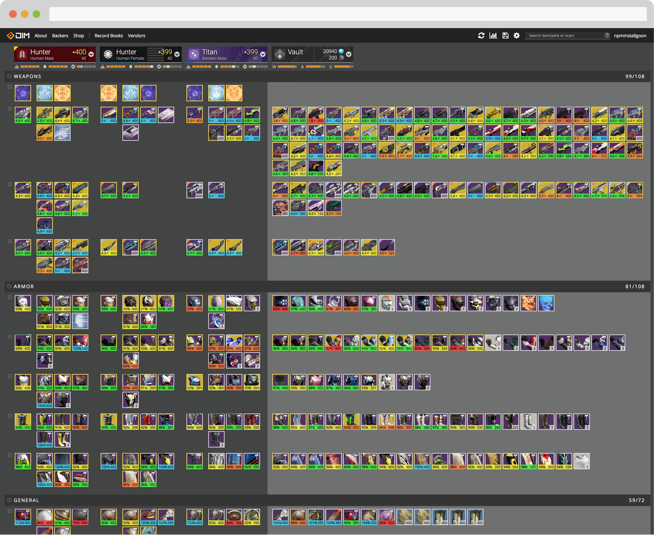
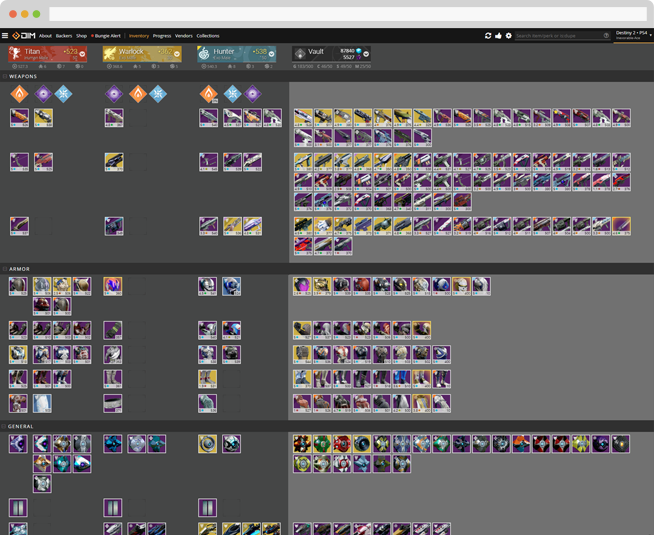
first panel images replaced, copy updated for destiny 2

diff --git a/destinyitemmanager.com/index.html b/destinyitemmanager.com/index.html
@@ -1,167 +1,177 @@
 <!DOCTYPE html>
 <html lang="en">
-  <head>
-    <meta charset="utf-8">
-    <meta name="viewport" content="width=device-width, initial-scale=1">
 
-    <!-- Global Site Tag (gtag.js) - Google Analytics -->
-    <script async src="https://www.googletagmanager.com/gtag/js?id=UA-60316581-6"></script>
-    <script>
-     window.dataLayer = window.dataLayer || [];
-     function gtag(){dataLayer.push(arguments)};
-     gtag('js', new Date());
+<head>
+  <meta charset="utf-8">
+  <meta name="viewport" content="width=device-width, initial-scale=1">
 
-     gtag('config', 'UA-60316581-6');
-    </script>
+  <!-- Global Site Tag (gtag.js) - Google Analytics -->
+  <script async src="https://www.googletagmanager.com/gtag/js?id=UA-60316581-6"></script>
+  <script>
+    window.dataLayer = window.dataLayer || [];
+    function gtag() { dataLayer.push(arguments) };
+    gtag('js', new Date());
 
-    <title>Destiny Item Manager</title>
-    <link href="/favicon-16x16.png" rel="icon" sizes="16x16" type="image/png">
-    <link href="/favicon-32x32.png" rel="icon" sizes="32x32" type="image/png">
-    <link href="/favicon-96x96.png" rel="icon" sizes="96x96" type="image/png">
-    <link href="https://fonts.googleapis.com/css?family=Open+Sans:300,400,600,700,800" rel="stylesheet">
-    <link rel="stylesheet" href="https://cdnjs.cloudflare.com/ajax/libs/normalize/7.0.0/normalize.min.css">
-    <link rel="stylesheet" href="css/main.css">
-  </head>
-  <body>
-    <header>
-      <nav class="row">
-        <div class="col-2 logo"><img class="logo link release" src="images/DIM-menu.svg" alt="DIM" href="#"></div>
-        <ul class="col-10 menu">
-          <li><a target="_blank" href="https://opencollective.com/dim?utm_campaign=dim&utm_medium=github&utm_source=opencollective#about_us">About</a></li>
-          <li><a target="_blank" href="https://opencollective.com/dim?utm_campaign=dim&utm_medium=github&utm_source=opencollective#support">Backers</a></li>
-          <li><a target="_blank" href="https://shop.destinyitemmanager.com/">Shop</a></li>
-          <li><a target="_blank" href="https://github.com/DestinyItemManager/DIM/issues">Support</a></li>
-          <li class="vertical-break">|</li>
-          <li><a href="https://app.destinyitemmanager.com">Launch App</a></li>
-        </ul>
-      </nav>
-      <button class="mobile-menu">Mobile Menu<span></span><span></span><span> </span></button>
-      <nav class="sliding-panel-content">
-        <ul class="menu">
-          <li class="mobile-heading"><img class="logo link release" src="images/DIM-menu.svg" alt="DIM" href="#"></li>
-          <li><a target="_blank" href="https://opencollective.com/dim?utm_campaign=dim&utm_medium=github&utm_source=opencollective#about_us">About</a></li>
-          <li><a target="_blank" href="https://opencollective.com/dim?utm_campaign=dim&utm_medium=github&utm_source=opencollective#support">Backers</a></li>
-          <li><a target="_blank" href="https://teespring.com/stores/dim">Shop</a></li>
-          <li><a target="_blank" href="https://github.com/DestinyItemManager/DIM/issues">Support</a></li>
-          <li><a href="https://app.destinyitemmanager.com">Launch App</a></li>
-        </ul>
-      </nav>
-    </header>
-    <div class="hero">
-      <div class="row">
-        <h1>Control Your Items Your Way.</h1>
-        <p>Swap items, check stats, build the loadout to Become Legend with DIM</p>
-        <a class="launch" href="https://app.destinyitemmanager.com">Launch app</a><a class="beta" href="https://beta.destinyitemmanager.com"><em>try the beta</em></a><img class="browser" src="images/Browser.png" width="654px" alt="Browser running Destiny Item Manager">
+    gtag('config', 'UA-60316581-6');
+  </script>
+
+  <title>Destiny Item Manager</title>
+  <link href="/favicon-16x16.png" rel="icon" sizes="16x16" type="image/png">
+  <link href="/favicon-32x32.png" rel="icon" sizes="32x32" type="image/png">
+  <link href="/favicon-96x96.png" rel="icon" sizes="96x96" type="image/png">
+  <link href="https://fonts.googleapis.com/css?family=Open+Sans:300,400,600,700,800" rel="stylesheet">
+  <link rel="stylesheet" href="https://cdnjs.cloudflare.com/ajax/libs/normalize/7.0.0/normalize.min.css">
+  <link rel="stylesheet" href="css/main.css">
+</head>
+
+<body>
+  <header>
+    <nav class="row">
+      <div class="col-2 logo"><img class="logo link release" src="images/DIM-menu.svg" alt="DIM" href="#"></div>
+      <ul class="col-10 menu">
+        <li><a target="_blank" href="https://opencollective.com/dim?utm_campaign=dim&utm_medium=github&utm_source=opencollective#about_us">About</a></li>
+        <li><a target="_blank" href="https://opencollective.com/dim?utm_campaign=dim&utm_medium=github&utm_source=opencollective#support">Backers</a></li>
+        <li><a target="_blank" href="https://shop.destinyitemmanager.com/">Shop</a></li>
+        <li><a target="_blank" href="https://github.com/DestinyItemManager/DIM/issues">Support</a></li>
+        <li class="vertical-break">|</li>
+        <li><a href="https://app.destinyitemmanager.com">Launch App</a></li>
+      </ul>
+    </nav>
+    <button class="mobile-menu">Mobile Menu<span></span><span></span><span> </span></button>
+    <nav class="sliding-panel-content">
+      <ul class="menu">
+        <li class="mobile-heading"><img class="logo link release" src="images/DIM-menu.svg" alt="DIM" href="#"></li>
+        <li><a target="_blank" href="https://opencollective.com/dim?utm_campaign=dim&utm_medium=github&utm_source=opencollective#about_us">About</a></li>
+        <li><a target="_blank" href="https://opencollective.com/dim?utm_campaign=dim&utm_medium=github&utm_source=opencollective#support">Backers</a></li>
+        <li><a target="_blank" href="https://teespring.com/stores/dim">Shop</a></li>
+        <li><a target="_blank" href="https://github.com/DestinyItemManager/DIM/issues">Support</a></li>
+        <li><a href="https://app.destinyitemmanager.com">Launch App</a></li>
+      </ul>
+    </nav>
+  </header>
+  <div class="hero">
+    <div class="row">
+      <h1>Control Your Items Your Way.</h1>
+      <p>Swap items, check stats, build the loadout to Become Legend with DIM</p>
+      <a class="launch" href="https://app.destinyitemmanager.com">Launch app</a><a class="beta" href="https://beta.destinyitemmanager.com"><em>try
+          the beta</em></a><img class="browser" src="images/Browser.png" width="654px" alt="Browser running Destiny Item Manager">
+    </div>
+  </div>
+  <section class="whats-dim">
+    <div class="row">
+      <div class="col-5 info">
+        <div class="text-wrap">
+          <h2>What's DIM?</h2>
+          <h3>Weapons</h3>
+          <p>Forgot to grab your favorite hand cannon? Just click and drag it to your active charcter.</p>
+          <h3>Gear</h3>
+          <p>Need those STOMP-EE5 for the jumping puzzle? Fire up DIM and grab them.</p>
+          <h3>Loadouts</h3>
+          <p>Create the perfect loadout for Raids, Strikes, Gambit, and any other loadout that woud be helpful.</p>
+        </div>
+      </div>
+      <div class="col-5"><img class="image-shadow" alt="Gear Square" src="images/GearSquare@2x.jpg" width="379px"></div>
+    </div>
+  </section>
+  <section class="easy">
+    <div class="row">
+      <div class="col-5 image"><img class="image-shadow" alt="Inspect Weapons" src="images/InspectWeaponShot@2x.jpg"
+          width="379px"></div>
+      <div class="col-5">
+        <div class="text-wrap">
+          <h2>It Really Is That Easy.</h2>
+          <h3>Drop Rating Percentage</h3>
+          <p>Going for a Tier 12 build? Use DIM to see how good your roll is on armor. (Coming soon for Destiny 2)</p>
+          <h3>Weapon Reviews / Ratings</h3>
+          <p>Review and rate your favorite guns, and let others know what you think.</p>
+          <h3>Tagging</h3>
+          <p>Organize your stuff by what to keep, what's your favorite, what to infuse and what to get rid of.</p>
+        </div>
       </div>
     </div>
-    <section class="whats-dim">
-      <div class="row">
-        <div class="col-5 info">
-          <div class="text-wrap">
-            <h2>What's DIM?</h2>
-            <h3>Weapons</h3>
-            <p>Forgot to grab your favorite hand cannon? Just click and drag it to your active charcter.</p>
-            <h3>Gear</h3>
-            <p>Need those Bones of Eao for the jumping puzzle? Fire up DIM and grab them.</p>
-            <h3>Loadouts</h3>
-            <p>Create the perfect loadout for Raids, Strikes, Trails, and any other loadout that woud be helpful.</p>
-          </div>
+  </section>
+  <section class="access">
+    <div class="row">
+      <div class="col-6">
+        <h2>Access Your Items Everywhere</h2>
+        <div class="devices">
+          <span class="device-text">PC</span><span class="spacer text-dark"> </span><span class="device-text">Tablet</span><span
+            class="spacer text-dark"> </span><span class="device-text">Mobile</span>
         </div>
-        <div class="col-5"><img class="image-shadow" alt="Gear Square" src="images/GearSquare@2x.jpg" width="379px"></div>
-      </div>
-    </section>
-    <section class="easy">
-      <div class="row">
-        <div class="col-5 image"><img class="image-shadow" alt="Inspect Weapons" src="images/InspectWeaponShot@2x.jpg" width="379px"></div>
-        <div class="col-5">
-          <div class="text-wrap">
-            <h2>It Really Is That Easy.</h2>
-            <h3>Drop Rating Percentage</h3>
-            <p>Going for a Tier 12 build? Use DIM to see how good your roll is on armor. (Not available for Destiny 2 yet)</p>
-            <h3>Weapon Reviews / Ratings</h3>
-            <p>Review and rate your favorite guns, and let others know what you think.</p>
-            <h3>Tagging</h3>
-            <p>Organize your stuff by what to keep, what's your favorite, what to infuse and what to get rid of.</p>
-          </div>
+        <div class="systems">
+          <span class="xbox device-text">Xbox</span><span class="spacer text-dark"> </span><span class="playstation device-text">Playstation</span><span
+            class="spacer text-dark"> </span><span class="blizzard device-text">Blizzard</span>
         </div>
+        <a class="launch" href="https://app.destinyitemmanager.com">Launch app</a>
+        <a class="beta" href="https://beta.destinyitemmanager.com"> <em>try the beta</em></a>
       </div>
-    </section>
-    <section class="access">
-      <div class="row">
-        <div class="col-6">
-          <h2>Access Your Items Everywhere</h2>
-          <div class="devices">
-            <span class="device-text">PC</span><span class="spacer text-dark"> </span><span class="device-text">Tablet</span><span class="spacer text-dark"> </span><span class="device-text">Mobile</span>
-          </div>
-          <div class="systems">
-            <span class="xbox device-text">Xbox</span><span class="spacer text-dark"> </span><span class="playstation device-text">Playstation</span><span class="spacer text-dark"> </span><span class="blizzard device-text">Blizzard</span>
-          </div>
-          <a class="launch" href="https://app.destinyitemmanager.com">Launch app</a>
-          <a class="beta" href="https://beta.destinyitemmanager.com"> <em>try the beta</em></a>
-        </div>
-        <div class="col-6"><img class="vertical-full-height" alt="Gear Square" src="images/devices@2x.png" width="538"></div>
-      </div>
-    </section>
-    <footer>
-      <div class="row footer-nav">
-        <div class="col-2 footer-logo">
-          <svg width="71px" height="25px" viewbox="0 0 71 25" version="1.1" xmlns="http://www.w3.org/2000/svg" xmlns:xlink="http://www.w3.org/1999/xlink">
-            <defs>
-              <lineargradient id="linearGradient-1" x1="97.073663%" y1="97.0720687%" x2="24.9815504%" y2="24.9777845%">
-                <stop stop-color="#FFFFFF" offset="0%"></stop>
-                <stop stop-color="#C9CACC" offset="100%"></stop>
-              </lineargradient>
-            </defs>
-            <g id="Welcome" stroke="none" stroke-width="1" fill="none" fill-rule="evenodd">
-              <g id="Desktop-HD" transform="translate(-261.000000, -2023.000000)" fill-rule="nonzero">
-                <g id="Footer" transform="translate(0.000000, 1972.000000)">
-                  <g id="DIM-white-footer" transform="translate(261.000000, 51.000000)">
-                    <polygon id="tiny-square" fill="url(#linearGradient-1)" points="14.9913398 12.4922564 12.4927832 9.99407603 9.99430181 12.4922564 12.4927832 14.9909635"></polygon>
-                    <polygon id="big-square" fill="#FFFFFF" points="22.6722999 10.1795919 22.4866334 9.99407603 19.9880768 7.49566991 17.4896707 4.99703802 14.7317681 2.23913543 12.4926327 -2.84217094e-14 9.99400077 2.49848138 12.0218814 4.526362 14.9911893 7.49566991 17.4896707 9.99385025 17.4894449 9.99407603 19.9880768 12.4925574 17.4894449 14.9909635 17.4896707 14.991114 15.4589302 17.021704 12.4926327 19.9879263 9.99400077 17.4894449 7.49566991 14.9909635 7.49566991 14.991114 5.18925205 12.6847714 4.99703802 12.4925574 7.80182758 9.68769259 9.99400077 7.49536887 7.49566991 4.99703802 4.99703802 7.49536887 2.49855664 9.99407603 0 12.4925574 2.4986319 14.9909635 4.99733906 17.4894449 4.99703802 17.4895954 7.49566991 19.9879263 9.99400077 22.4866334 12.4926327 24.9849643 14.9911893 22.4866334 17.4898212 19.9879263 19.9880768 17.4894449 22.4866334 14.9909635 24.9852653 12.4925574 22.887694 10.3950613"></polygon>
-                    <path id="dim-text" d="M55.4628547,3.94994568 L52.726025,3.94994568 L52.726025,20.8399447 L56.2293778,20.8400952 L56.2293778,9.08839723 L61.4714624,13.9028545 L66.6544678,9.09998727 L66.6544678,20.8400952 L70.157896,20.8399447 L70.157896,3.94994568 L67.44244,3.94994568 L61.4768811,9.45950427 L55.4628547,3.94994568 Z M47.1716114,3.95017146 L50.5493553,3.95017146 L50.5493553,20.8401705 L47.1716114,20.8401705 L47.1716114,3.95017146 Z M41.8544174,3.9500962 L28.0911702,3.9500962 L28.0911702,7.32814116 L41.603651,7.32814116 L41.6032747,10.7061109 L41.603651,10.7061109 L41.603651,13.4515956 L41.6032747,17.4622008 L31.4692151,17.4622008 L31.4692151,10.7061109 L28.0911702,10.7061109 L28.0911702,20.8402458 L31.4692151,20.8400952 L34.8474106,20.8400952 L34.8474106,20.8402458 L38.2252298,20.8400952 L41.603651,20.8400952 L41.603651,20.8402458 L44.9813197,20.8400952 L44.9813197,14.0840806 L44.9813197,14.0842311 L44.9813197,3.9500962 L42.145523,3.9500962 L41.8544174,3.9500962 Z" fill="#F2F2F2"></path>
-                  </g>
+      <div class="col-6"><img class="vertical-full-height" alt="Gear Square" src="images/devices@2x.png" width="538"></div>
+    </div>
+  </section>
+  <footer>
+    <div class="row footer-nav">
+      <div class="col-2 footer-logo">
+        <svg width="71px" height="25px" viewbox="0 0 71 25" version="1.1" xmlns="http://www.w3.org/2000/svg"
+          xmlns:xlink="http://www.w3.org/1999/xlink">
+          <defs>
+            <lineargradient id="linearGradient-1" x1="97.073663%" y1="97.0720687%" x2="24.9815504%" y2="24.9777845%">
+              <stop stop-color="#FFFFFF" offset="0%"></stop>
+              <stop stop-color="#C9CACC" offset="100%"></stop>
+            </lineargradient>
+          </defs>
+          <g id="Welcome" stroke="none" stroke-width="1" fill="none" fill-rule="evenodd">
+            <g id="Desktop-HD" transform="translate(-261.000000, -2023.000000)" fill-rule="nonzero">
+              <g id="Footer" transform="translate(0.000000, 1972.000000)">
+                <g id="DIM-white-footer" transform="translate(261.000000, 51.000000)">
+                  <polygon id="tiny-square" fill="url(#linearGradient-1)" points="14.9913398 12.4922564 12.4927832 9.99407603 9.99430181 12.4922564 12.4927832 14.9909635"></polygon>
+                  <polygon id="big-square" fill="#FFFFFF" points="22.6722999 10.1795919 22.4866334 9.99407603 19.9880768 7.49566991 17.4896707 4.99703802 14.7317681 2.23913543 12.4926327 -2.84217094e-14 9.99400077 2.49848138 12.0218814 4.526362 14.9911893 7.49566991 17.4896707 9.99385025 17.4894449 9.99407603 19.9880768 12.4925574 17.4894449 14.9909635 17.4896707 14.991114 15.4589302 17.021704 12.4926327 19.9879263 9.99400077 17.4894449 7.49566991 14.9909635 7.49566991 14.991114 5.18925205 12.6847714 4.99703802 12.4925574 7.80182758 9.68769259 9.99400077 7.49536887 7.49566991 4.99703802 4.99703802 7.49536887 2.49855664 9.99407603 0 12.4925574 2.4986319 14.9909635 4.99733906 17.4894449 4.99703802 17.4895954 7.49566991 19.9879263 9.99400077 22.4866334 12.4926327 24.9849643 14.9911893 22.4866334 17.4898212 19.9879263 19.9880768 17.4894449 22.4866334 14.9909635 24.9852653 12.4925574 22.887694 10.3950613"></polygon>
+                  <path id="dim-text" d="M55.4628547,3.94994568 L52.726025,3.94994568 L52.726025,20.8399447 L56.2293778,20.8400952 L56.2293778,9.08839723 L61.4714624,13.9028545 L66.6544678,9.09998727 L66.6544678,20.8400952 L70.157896,20.8399447 L70.157896,3.94994568 L67.44244,3.94994568 L61.4768811,9.45950427 L55.4628547,3.94994568 Z M47.1716114,3.95017146 L50.5493553,3.95017146 L50.5493553,20.8401705 L47.1716114,20.8401705 L47.1716114,3.95017146 Z M41.8544174,3.9500962 L28.0911702,3.9500962 L28.0911702,7.32814116 L41.603651,7.32814116 L41.6032747,10.7061109 L41.603651,10.7061109 L41.603651,13.4515956 L41.6032747,17.4622008 L31.4692151,17.4622008 L31.4692151,10.7061109 L28.0911702,10.7061109 L28.0911702,20.8402458 L31.4692151,20.8400952 L34.8474106,20.8400952 L34.8474106,20.8402458 L38.2252298,20.8400952 L41.603651,20.8400952 L41.603651,20.8402458 L44.9813197,20.8400952 L44.9813197,14.0840806 L44.9813197,14.0842311 L44.9813197,3.9500962 L42.145523,3.9500962 L41.8544174,3.9500962 Z"
+                    fill="#F2F2F2"></path>
                 </g>
               </g>
             </g>
-          </svg>
-        </div>
-        <div class="col-6 nav">
-          <ul>
-            <li class="link-headings">Useful Links</li>
-            <li><a class="link-text" target="_blank" href="https://github.com/DestinyItemManager/DIM/issues">Support</a></li>
-            <li><a class="link-text" href="https://beta.destinyitemmanager.com">Beta</a></li>
-            <li><a class="link-text" href="https://app.destinyitemmanager.com">Launch App</a></li>
-            <li><a class="link-text" target="_blank" href="https://twitter.com/ThisIsDIM">Contact</a></li>
-            <li><a class="link-text" target="_blank" href="https://timesavedwith.destinyitemmanager.com/">Time Saved with DIM</a></li>
-          </ul>
-        </div>
-        <div class="col-4 social">
-          <a class="icon-button" target="_blank" href="https://twitter.com/ThisIsDIM">
-            <img src="images/icons_dTwitter.png" alt="Twitter">
-          </a>
-          <a class="icon-button" target="_blank" href="https://www.reddit.com/r/DestinyItemManager/">
-            <img src="images/icons_dReddit.png" alt="Reddit">
-          </a>
-          <a class="icon-button" target="_blank" href="https://github.com/DestinyItemManager/DIM/">
-            <img src="images/icons_dGithub.png" alt="GitHub">
-          </a>
-          <a class="icon-button" target="_blank" href="https://discordapp.com/invite/UK2GWC7">
-            <img src="images/icons_dDiscord.png" alt="Discord">
-          </a>
-        </div>
+          </g>
+        </svg>
       </div>
-      <div class="row">
-        <div class="col-6">
-          <ul class="footer-bottom-nav">
-            <li>Destiny is a registered trademark of Bungie. Some content and images are the property of Bungie.</li>
-          </ul>
-        </div>
-        <div class="col-6">
-          <div class="copy">&copy; 2017 DIM</div>
-        </div>
+      <div class="col-6 nav">
+        <ul>
+          <li class="link-headings">Useful Links</li>
+          <li><a class="link-text" target="_blank" href="https://github.com/DestinyItemManager/DIM/issues">Support</a></li>
+          <li><a class="link-text" href="https://beta.destinyitemmanager.com">Beta</a></li>
+          <li><a class="link-text" href="https://app.destinyitemmanager.com">Launch App</a></li>
+          <li><a class="link-text" target="_blank" href="https://twitter.com/ThisIsDIM">Contact</a></li>
+          <li><a class="link-text" target="_blank" href="https://timesavedwith.destinyitemmanager.com/">Time Saved with
+              DIM</a></li>
+        </ul>
       </div>
-    </footer>
-    <div class="sliding-panel-fade-screen"></div>
-    <script src="scripts/main.js"></script>
-  </body>
+      <div class="col-4 social">
+        <a class="icon-button" target="_blank" href="https://twitter.com/ThisIsDIM">
+          <img src="images/icons_dTwitter.png" alt="Twitter">
+        </a>
+        <a class="icon-button" target="_blank" href="https://www.reddit.com/r/DestinyItemManager/">
+          <img src="images/icons_dReddit.png" alt="Reddit">
+        </a>
+        <a class="icon-button" target="_blank" href="https://github.com/DestinyItemManager/DIM/">
+          <img src="images/icons_dGithub.png" alt="GitHub">
+        </a>
+        <a class="icon-button" target="_blank" href="https://discordapp.com/invite/UK2GWC7">
+          <img src="images/icons_dDiscord.png" alt="Discord">
+        </a>
+      </div>
+    </div>
+    <div class="row">
+      <div class="col-6">
+        <ul class="footer-bottom-nav">
+          <li>Destiny is a registered trademark of Bungie. Some content and images are the property of Bungie.</li>
+        </ul>
+      </div>
+      <div class="col-6">
+        <div class="copy">&copy; 2017 DIM</div>
+      </div>
+    </div>
+  </footer>
+  <div class="sliding-panel-fade-screen"></div>
+  <script src="scripts/main.js"></script>
+</body>
+
 </html>

diff --git a/destinyitemmanager.com/css/main.css b/destinyitemmanager.com/css/main.css
@@ -463,7 +463,7 @@ section.d2 {
   display: flex;
   padding: 150px 0; }
   section.d2 .d2-support svg {
-    display: inline-block;
+    display: block;
     float: left; }
   section.d2 .d2-support h4 {
     display: inline-block;
